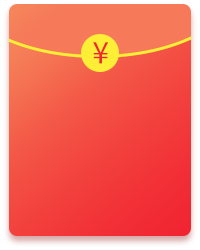
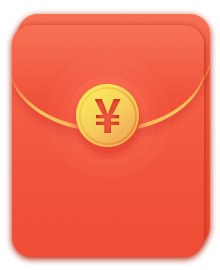
update: 2018双旦活动-我的礼物-红包设计更新

diff --git a/activities/XmasNewYear2018/sourceCode/js/myaward.js b/activities/XmasNewYear2018/sourceCode/js/myaward.js
@@ -61,35 +61,28 @@ var couponItem = '									\
 		<div class="sectionItemFocusHatClass"></div>	\
 	</div>';
 var redbagUncollectedItem = '												\
-	<!--列表项-未领取的红包-->												\
-	<div id="redbagUncollectedId" class="sectionItemClass coocaa_btn">	\
-		<!--未获得焦点时-->													\
-		<div class="sectionItemNormalClass"></div>						\
-		<!--获得焦点时-->													\
-		<div class="sectionItemFocusClass"></div>						\
-		<!--红包详细信息-->													\
-		<div class="sectionItemDetailsClass">							\
-			<div class="sectionItemDetailsValueClass"></div>			\
-			<div>(总计)</div>												\
-		</div>															\
-		<!--按钮-->														\
-		<div class="sectionItemButtonClass"></div>						\
-	</div>';
+		<!--列表项-未领取的红包-->												 \
+		<div   class="redbagUncollectedClass sectionItemClass coocaa_btn">	 \
+			<!--红包图片-->													\
+			<div class="sectionItemNormalClass"></div>						 \
+			<!--红包类型-->													 \
+			<div class="sectionItemTitleClass"></div>						 \
+			<!--红包金额-->													 \
+			<div class="sectionItemDetailsClass">共计 <span ></span> 元 </div>		\
+			<!--按钮-->															\
+			<div class="sectionItemButtonClass"></div>						\
+		</div>';
 var redbagCollectedItem = '												\
 	<!--列表项-已领取的红包-->												\
 	<div id="redbagCollectedId" class="sectionItemClass coocaa_btn">	\
-		<!--未获得焦点时-->													\
+		<!--红包图片-->													\
 		<div class="sectionItemNormalClass"></div>						\
-		<!--获得焦点时-->													\
-		<div class="sectionItemFocusClass"></div>						\
-		<!--红包详细信息-->													\
-		<div class="sectionItemDetailsClass">							\
-			<div>￥</div>												\
-			<div class="sectionItemDetailsValueClass"></div>			\
-			<div>(总计)</div>												\
-		</div>															\
-		<!--按钮-->														\
-		<div class="sectionItemButtonClass"></div>						\
+		<!--提示文字-->													 \
+		<div class="sectionItemSumClass">总计</div>						\
+		<!--红包金额-->													\
+		<div class="sectionItemDetailsClass"><span></span></div>						\
+		<!--提示文字-->													\
+		<div class="sectionItemTitleClass">当前已领取</div>					\
 	</div>';
 var cashUncollectedItem = '												\
 	<!--列表项-未领取的大额现金-->												\
@@ -519,7 +512,9 @@ function updateGiftsInfoToPage(data) {
 	console.log("updateGiftsInfoOnPage len:"+len);
 	var itemName, listId, containerName; //页面元素变量
 	var awardTypeId;	//服务器返回数据变量
-	var totalBonus = 0;
+	var totalBonus = 0;//红包总额
+	var totalBonusCollected = 0; //红包已领取总额
+	var bRedbagCollectedItemAdded = false;//默认对应后台一条数据,需要添加一个与之对应的页面元素块; 例外是已领取红包,因为后台无法合并,所以页面需要只显示一处.
 	//存储不同优惠券的数组,相同优惠券在对应位+1;
 	var couponAwardIdArr = [], couponAwardNumArr = [];
 	var index=0;
@@ -584,18 +579,21 @@ function updateGiftsInfoToPage(data) {
 				}
 				break;
 			case "7": //微信红包
-				if(data[i].awardExchangeFlag == 1) { 
-					itemName = redbagCollectedItem;
-				}else {
-					itemName = redbagUncollectedItem;
-				}
-				listId = "redbagCashList";
-				containerName = "redbagCashContainer";
 				//专属属性:
 				if(data[i].awardInfo != null) {
+					listId = "redbagCashList";
+					containerName = "redbagCashContainer";
+					
 					var awardInfo = (data[i].awardInfo);
 					giftsAttributes.bonus = awardInfo.bonus;
 					totalBonus = totalBonus + (giftsAttributes.bonus*100);
+					
+					if(data[i].awardExchangeFlag == 1) { 
+						itemName = redbagCollectedItem;
+						totalBonusCollected = totalBonusCollected + (giftsAttributes.bonus*100);
+					}else {
+						itemName = redbagUncollectedItem;
+					}
 				}
 			break;
 			case "15": //大额现金
@@ -632,11 +630,39 @@ function updateGiftsInfoToPage(data) {
 				break;
 		}
 		console.log("listId: "+listId + " containerName" + containerName);
-		//添加到页面上
-		$("#"+listId).append(itemName);
-		$("#" + listId +" .sectionItemClass:last-of-type").attr(giftsAttributes);
+		
+		//yuanbotest -start - 
+		//"红包已领取"第一次添加,后续不再添加;只累计对应已领取金额
+		if(awardTypeId != "7" || data[i].awardExchangeFlag != 1 || bRedbagCollectedItemAdded==false) {
+			//页面增加新元素:
+			$("#"+listId).append(itemName);
+			$("#" + listId +" .sectionItemClass:last-of-type").attr(giftsAttributes);	
+		
+			//红包已领取添加后set flag,后续不再添加;
+			if(awardTypeId == "7" && data[i].awardExchangeFlag == 1 && bRedbagCollectedItemAdded==false) {
+				bRedbagCollectedItemAdded = true;
+			}
+		} 
+		//yuanbotest - end -
 		
 		//每种礼物需要单独处理的地方:
+		//微信红包上的金额显示:
+		if(awardTypeId == "7" && data[i].awardExchangeFlag == 0) {//未领取红包
+			var redbagClass = "红包";
+			switch(data[i].lotteryActiveId) {
+				case _xMasNewYearActivityId: 
+					redbagClass = "任务红包";
+					break;
+				case _goldHouseActivityId: 
+					redbagClass = "抽奖红包";
+					break;
+				case _buyActiveId: 
+					redbagClass = "返利红包";
+					break;	
+			}
+			$("#"+listId+" .sectionItemClass:last-of-type .sectionItemTitleClass").text(redbagClass);
+			$("#"+listId+" .sectionItemClass:last-of-type .sectionItemDetailsClass span").text(giftsAttributes.bonus);
+		}	
 		//锦鲤更新按钮(已领取)
 		if(awardTypeId == "16") {
 			if(data[i].awardExchangeFlag == 1) { 
@@ -647,8 +673,9 @@ function updateGiftsInfoToPage(data) {
 		if(awardTypeId == "5") {
 			$("#couponList .sectionItemClass:last-of-type .sectionItemNormalClass").css("background-image", "url("+ data[i].awardUrl +")");
 		}
-		//微信红包上的金额显示:
-		if(awardTypeId == "7" || awardTypeId == "15") {
+	
+		//大额现金的金额显示:
+		if(awardTypeId == "15") {
 			$("#"+listId+" .sectionItemClass:last-of-type .sectionItemDetailsClass .sectionItemDetailsValueClass").text(giftsAttributes.bonus);
 		}
 		//实物奖显示图片
@@ -664,8 +691,12 @@ function updateGiftsInfoToPage(data) {
 	//显示主页面
 	//红包总金额更新:
 	if($("#redbagCashContainer").css("display") == "block") {
-		console.log("final totalBonus:" + totalBonus);
+		console.log("final totalBonus:" + totalBonus + " totalBonusCollected:"+totalBonusCollected + "...");
 		$("#redbagCashTotalId span").text(totalBonus/100);
+		if(bRedbagCollectedItemAdded == true) {//如果有已领取元素,更新金额
+			$("#redbagCollectedId .sectionItemDetailsClass span").text(totalBonusCollected/100);
+			$("#redbagCollectedId").attr("bonus", totalBonusCollected/100);
+		}
 	}
 	//优惠券叠加数更新:
 	if($("#couponList").css("display") == "block") {

diff --git a/activities/XmasNewYear2018/sourceCode/css/myaward.css b/activities/XmasNewYear2018/sourceCode/css/myaward.css
@@ -248,15 +248,17 @@ body {
 	margin-right: 3px;  
 }
 /*现金红包-正常显示(没有焦点)时的入口图标显示*/
-#redbagCashList .sectionItemNormalClass {width: 200px;height: 250px;}
-/*现金红包-获取焦点时的入口图标显示*/
-#redbagCashList .sectionItemFocusClass  {width: 182px;height: 232px;}
+#redbagCashList .sectionItemNormalClass {width: 200px;height: 250px; left: 47%;}
 /*红包-待领取*/
-#redbagUncollectedId .sectionItemNormalClass {background-image: url(../images/myaward/redbag.png);}
-#redbagUncollectedId .sectionItemFocusClass  {background-image: url(../images/myaward/redbagFocus.png);}
+#redbagCashList .redbagUncollectedClass .sectionItemNormalClass {
+	background-image: url(../images/myaward/redbag.png);
+	background-size: cover;
+}
 /*红包-已领取*/
-#redbagCollectedId .sectionItemNormalClass {background-image: url(../images/myaward/redbagCollected.png);}
-#redbagCollectedId .sectionItemFocusClass  {background-image: url(../images/myaward/redbagCollectedFocus.png);}
+#redbagCollectedId .sectionItemNormalClass {
+	background-image: url(../images/myaward/redbagCollected.png);
+	background-size: cover;
+}
 /*现金-待领取*/
 .cashUncollectedClass .sectionItemNormalClass {background-image: url(../images/myaward/cash.png);}
 .cashUncollectedClass .sectionItemFocusClass  {background-image: url(../images/myaward/cashFocus.png);}
@@ -269,43 +271,70 @@ body {
 	background-image: url(../images/myaward/redbagFocusBg.png);
 	background-repeat: no-repeat;
 }
-#redbagCashList .sectionItemClass[class~=btn-focus] .sectionItemNormalClass {
-	display: none;
-}
-#redbagCashList .sectionItemClass[class~=btn-focus] .sectionItemFocusClass {
-	display: block;
-}
 /*现金红包-按键*/
 #redbagCashList .sectionItemButtonClass {
 	position: absolute;
-	bottom: 48px;
-	left: 42px;
-	width: 160px;
-	height: 55px;
+	bottom: 25px;
+	left: 52px;
+	width: 140px;
+	height: 60px;
 	background-repeat: no-repeat;
 }
 /*红包-待领取*/
-#redbagUncollectedId .sectionItemButtonClass {background-image: url(../images/myaward/redbagBtn.png);}
-/*红包-已领取*/
-#redbagCollectedId .sectionItemButtonClass {background-image: url(../images/myaward/redbagBtnCollected.png);}
+#redbagCashList .redbagUncollectedClass .sectionItemButtonClass {background-image: url(../images/myaward/redbagBtn.png);}
 /*现金-待领取*/
 .cashUncollectedClass .sectionItemButtonClass {background-image: url(../images/myaward/cashBtn.png);}
 /*现金-已领取*/
-.cashCollectedClass .sectionItemButtonClass {background-image: url(../images/myaward/redbagBtnCollected.png);}
+.cashCollectedClass .sectionItemButtonClass {background-image: url(../images/myaward/cashBtnCollected.png);}
 
 /*红包-金额显示-待领取*/
-.sectionItemDetailsClass {
-    top: 105px;
-    position: absolute;
-    left: 50%;
-    transform: translateX(-50%);	
-    -webkit-transform:translateX(-50%);
-	font-family: "SourceHanSansCN", sans-serif;
-	color: #FFFFFF;
-	font-size: 20px;
-	line-height: 20px;
+.sectionItemTitleClass {
+	position: absolute;
+	top: 55px;
+	font-size: 24px;
+	font-weight: bold;
+	color: #FFF6E5;
+	width: 100%;
 	text-align: center;
 }
+.sectionItemDetailsClass {
+    position: absolute;
+    top: 165px;
+    width: 100%;
+	font-family: "SourceHanSansCN", sans-serif;
+	font-size: 20px;
+	color: #FFF6E5;
+	text-align: center;
+}
+.sectionItemDetailsClass span {
+	font-size: 40px;
+}
+
+/*红包-金额显示-已领取*/
+#redbagCollectedId .sectionItemTitleClass { 
+	top: 215px;
+	font-size: 24px;
+}
+.sectionItemSumClass {
+	position: absolute;
+	top: 55px;
+	font-weight: bold;
+	font-size: 18px;
+	color: #CF891D;
+	width: 100%;
+	text-align: center;
+}
+#redbagCollectedId .sectionItemDetailsClass {
+	top: 78px;
+	font-size: 42px;
+	color: #F1593F;
+	font-weight: bold;
+}
+/*现金-待领取*/
+.cashUncollectedClass .sectionItemDetailsClass {
+	color: rosybrown;
+	top: 107px;
+} 
 .sectionItemDetailsValueClass {
 	font-size: 48px;
 	height: 48px;
@@ -321,29 +350,6 @@ body {
 	position: absolute;
 	top: 8px;
 }
-/*红包-金额显示-已领取*/
-#redbagCollectedId .sectionItemDetailsClass {
-	color: #816328;
-	top: 55px;
-	text-align: left;
-}
-#redbagCollectedId .sectionItemDetailsClass div:first-of-type{
-	font-size: 32px;
-    height: 35px;
-    line-height: 32px;
-}
-#redbagCollectedId .sectionItemDetailsValueClass:after {
-	color: #816328;
-	top: 40px;
-}
-#redbagCollectedId .sectionItemDetailsClass div:last-of-type{
-	text-align: center;
-}
-/*现金-待领取*/
-.cashUncollectedClass .sectionItemDetailsClass {
-	color: rosybrown;
-	top: 107px;
-} 
 .cashUncollectedClass .sectionItemDetailsValueClass:after {
 	color: rosybrown;
 }
